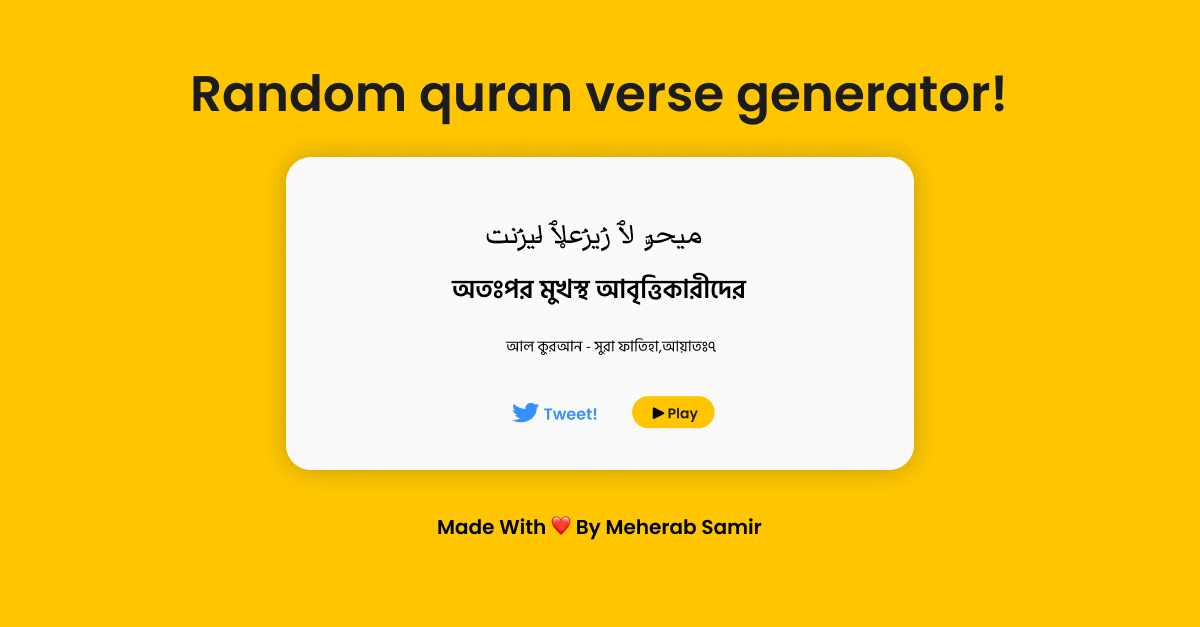
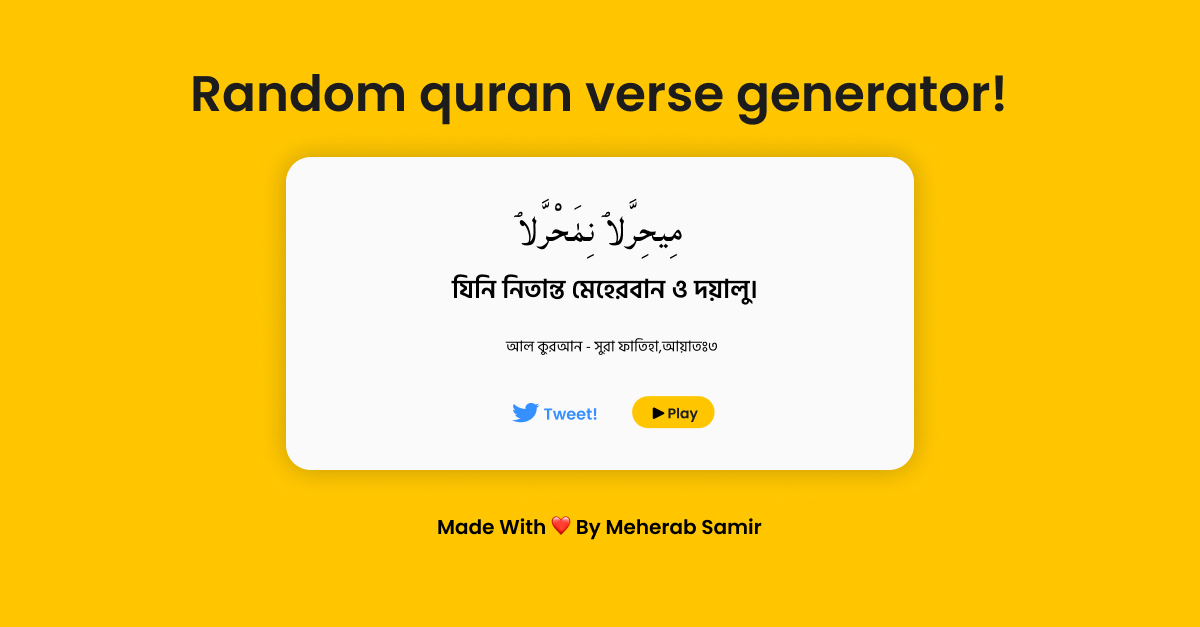
Random Quran Verse Generator

Changed region(s): [[0.37, 0.4242, 0.6475, 0.4848], [0.4008, 0.3333, 0.5858, 0.3939]]

diff --git a/assets/js/script.js b/assets/js/script.js
@@ -13,7 +13,7 @@ const suraInfo = document.querySelector('.sura-info')
 
 // Random Number
 function generateRandomNum(){
-    return Math.floor(Math.random() * 6236)
+    return Math.floor(Math.random() * 6)
 }
 const randomNum = generateRandomNum()
 
